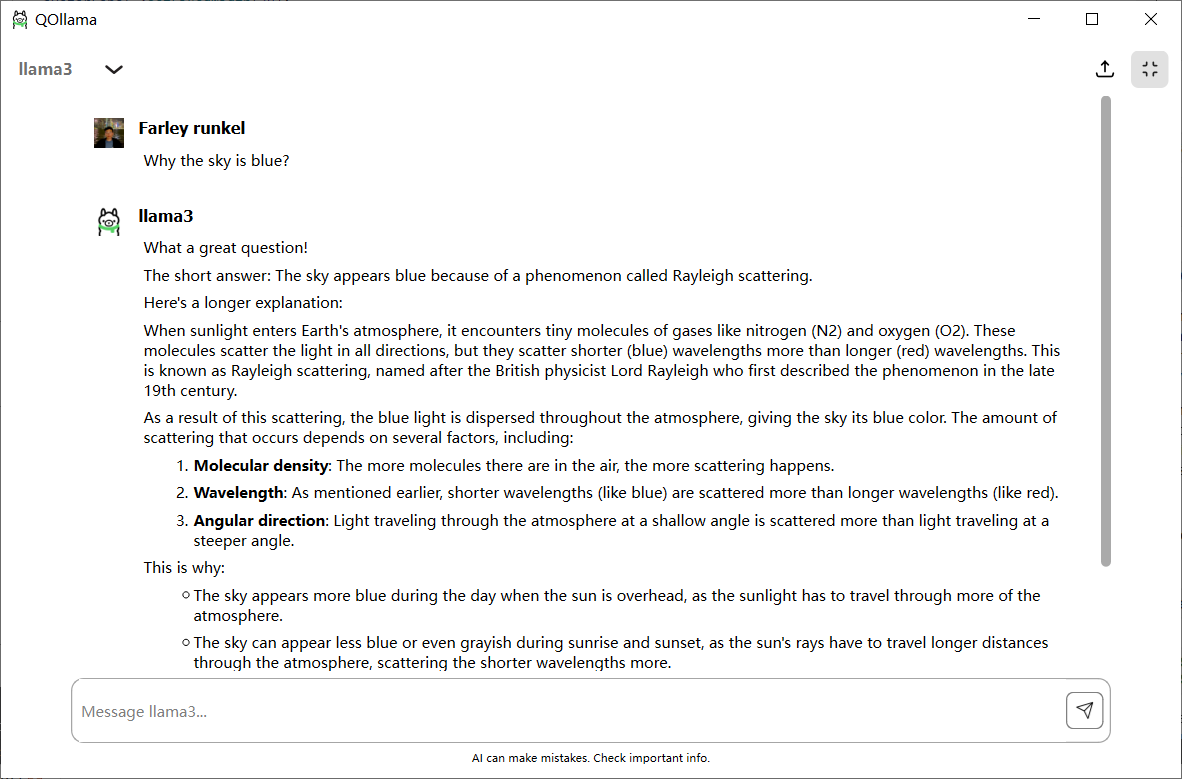
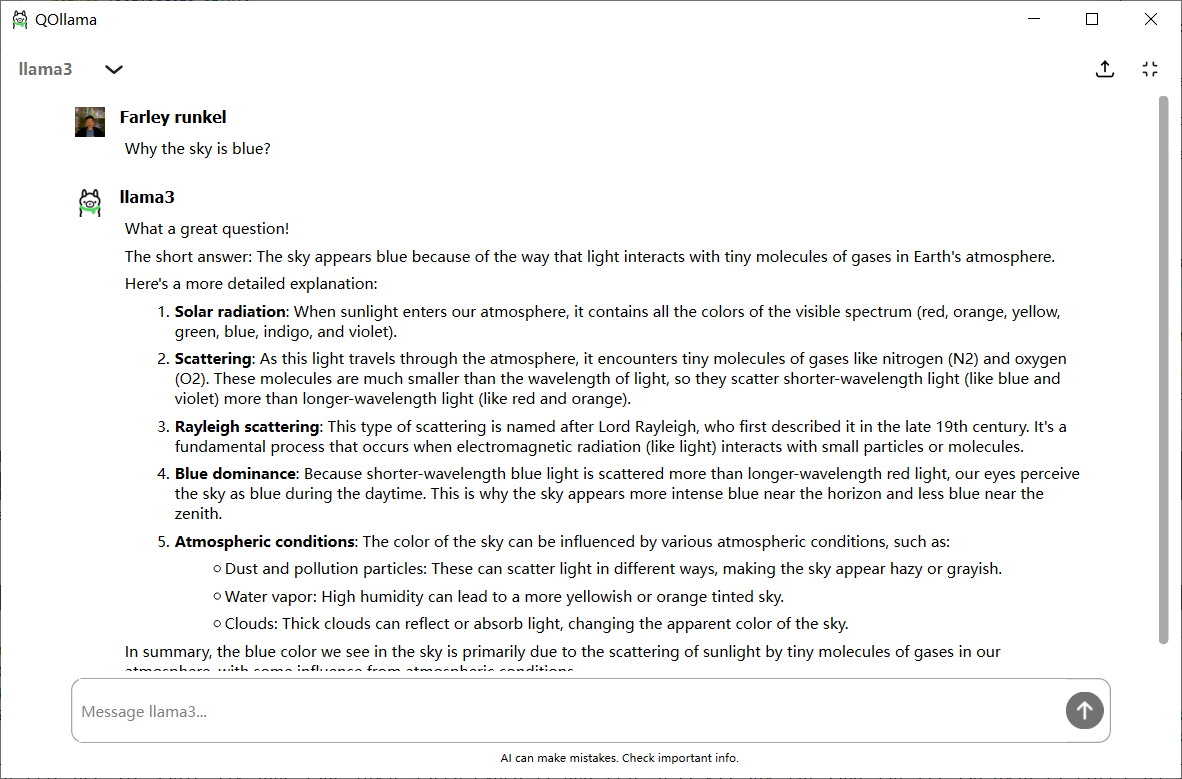
smalll fix

diff --git a/src/mainwindow.cpp b/src/mainwindow.cpp
@@ -30,6 +30,7 @@ MainWindow::MainWindow(QWidget *parent)
     });
 
     connect(welcome, &IWelcomePage::send, this, &MainWindow::addMessage);
+
     connect(ui->sendButton, &QPushButton::clicked, ui->inputLine, &QLineEdit::returnPressed);
     connect(ui->inputLine, &QLineEdit::returnPressed, ui->sendButton, &QPushButton::pressed);
 
@@ -37,7 +38,6 @@ MainWindow::MainWindow(QWidget *parent)
     connect(ui->historyList, &QListWidget::itemClicked, this, &MainWindow::onHistoryListItemClicked);
     connect(ui->expandButton, &QPushButton::pressed, this, &MainWindow::expandSideWidget);
     connect(ui->historyList, &IHistoryList::itemDeleted, [&](int row){ ui->chatTabs->removeTab(row); welcome->show(); });
-    //connect(ui->userButton, &QPushButton::pressed, user, &QDialog::show);
 }
 
 
@@ -120,6 +120,10 @@ void MainWindow::addMessage(QString text )
         qDebug() << "Input text is empty.";
         return;
     }
+
+    ui->sendButton->setEnabled(true);
+    ui->sendButton->setIcon(QIcon(":/icon/stop.svg"));
+    ui->sendButton->setStatusTip("Pending");
 
     auto *chatListView = getCurrentChatList();
     auto hisItem = ui->historyList->item(ui->chatTabs->currentIndex());
